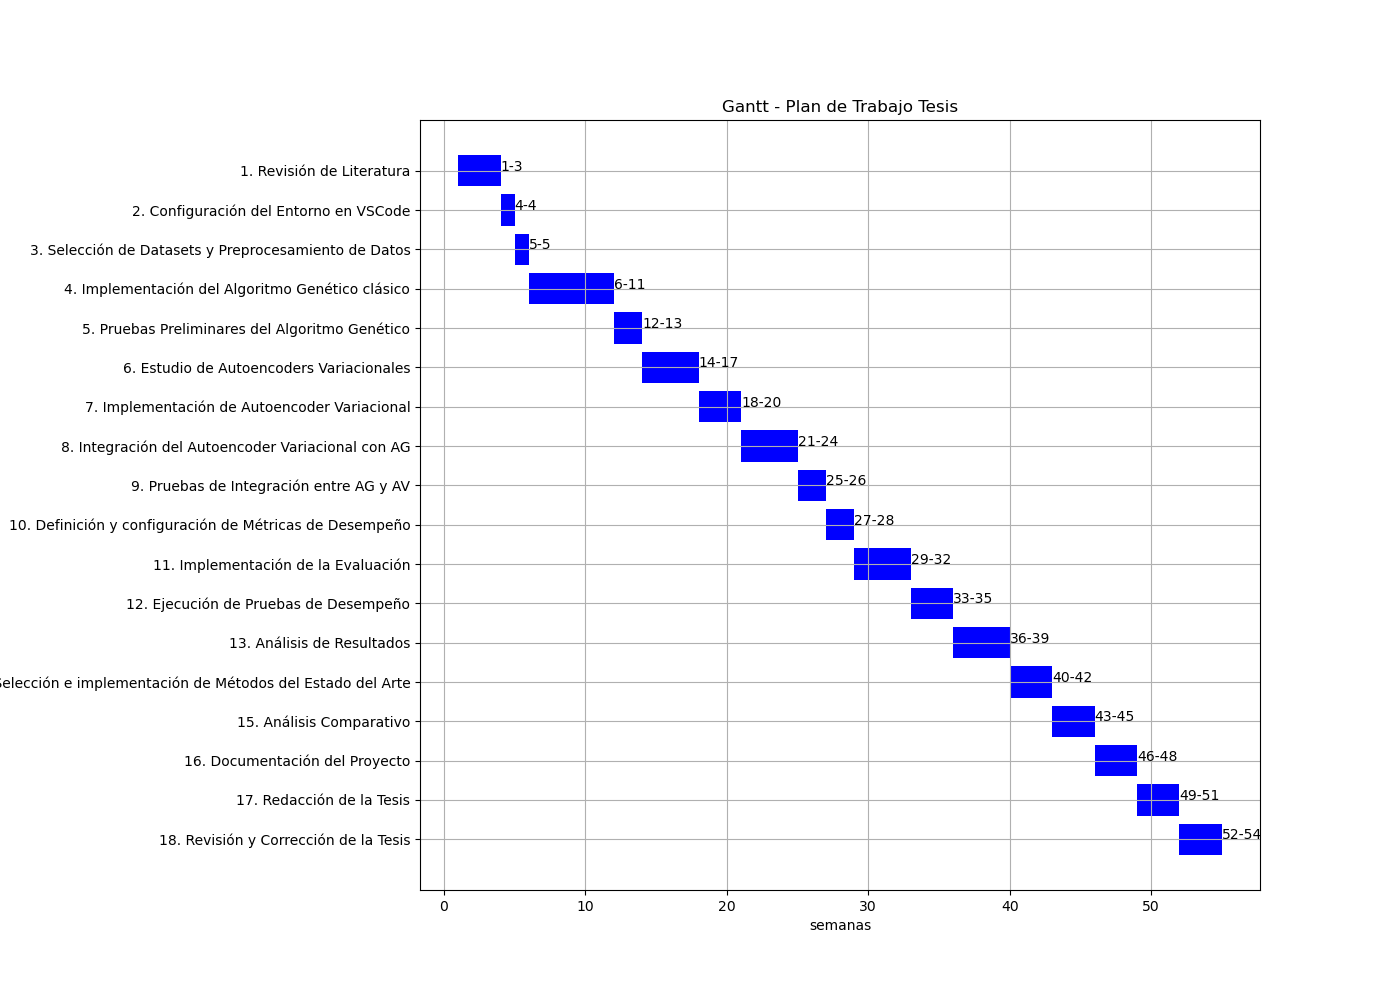
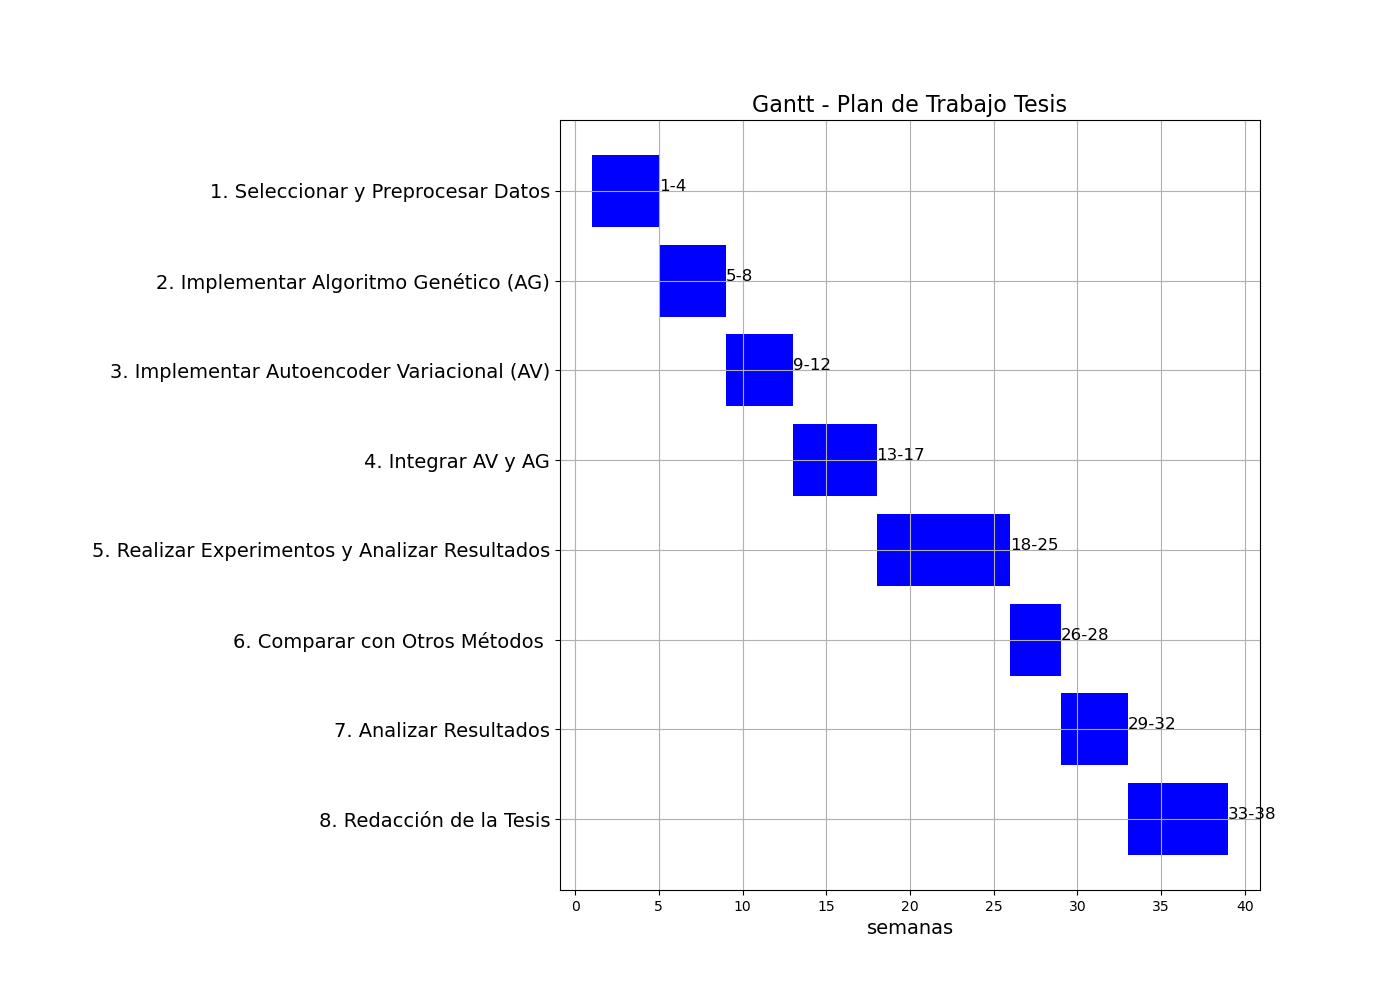
update

diff --git a/gant.py b/gant.py
@@ -3,26 +3,26 @@ import numpy as np
 
 # Updated activities and durations
 activities = [
-    "Revisión de Literatura",
-    "Configuración del Entorno en VSCode",
-    "Selección de Datasets y Preprocesamiento de Datos",
-    "Implementación del Algoritmo Genético clásico",
-    "Pruebas Preliminares del Algoritmo Genético",
-    "Estudio de Autoencoders Variacionales",
-    "Implementación de Autoencoder Variacional",
-    "Integración del Autoencoder Variacional con AG",
-    "Pruebas de Integración entre AG y AV",
-    "Definición y configuración de Métricas de Desempeño",
-    "Implementación de la Evaluación",
-    "Ejecución de Pruebas de Desempeño",
-    "Análisis de Resultados",
-    "Selección e implementación de Métodos del Estado del Arte",
-    "Análisis Comparativo",
-    "Documentación del Proyecto",
+    #"Revisión de Literatura",
+    #"Configuración del Entorno en VSCode",
+    "Seleccionar y Preprocesar Datos",
+    "Implementar Algoritmo Genético (AG)",
+    #"Pruebas Preliminares del Algoritmo Genético",
+    #"Estudio de Autoencoders Variacionales",
+    "Implementar Autoencoder Variacional (AV)",
+    "Integrar AV y AG",
+    #"Pruebas de Integración entre AG y AV",
+    #"Evaluar Desempeño",
+    #"Implementación de la Evaluación",
+    #"Ejecución de Pruebas de Desempeño",
+    "Realizar Experimentos y Analizar Resultados",
+    "Comparar con Otros Métodos ",
+    "Analizar Resultados",
+    #"Documentación del Proyecto",
     "Redacción de la Tesis",
-    "Revisión y Corrección de la Tesis"
+    #"Revisión y Corrección de la Tesis"
 ]
-durations = [3, 1, 1, 6, 2, 4, 3, 4, 2, 2, 4, 3, 4, 3, 3, 3, 3, 3]
+durations = [4,4,4,5,8,3,4,6]
 
 # Create an 'n' array to enumerate the activities
 n = list(range(1, len(activities) + 1))
@@ -32,22 +32,22 @@ start_week = 1
 
 # Create the updated Gantt chart with a new 'n' column
 fig, ax = plt.subplots(figsize=(14, 10))
-fig.subplots_adjust(left=0.3)  # Adjust the left margin
+fig.subplots_adjust(left=0.4)  # Adjust the left margin
 
 # Loop through activities, durations, and n in regular (not reversed) order
 for i, (activity, duration, num) in enumerate(zip(activities, durations, n)):
     end_week = start_week + duration - 1  # Calculate the ending week for the current activity
     ax.broken_barh([(start_week, duration)], ((len(activities) - i - 1) - 0.4, 0.8), facecolors='blue')
-    ax.text(end_week + 1, (len(activities) - i - 1), f"{start_week}-{end_week}", color="black", fontsize=10)
+    ax.text(end_week + 1, (len(activities) - i - 1), f"{start_week}-{end_week}", color="black", fontsize=12)
     start_week = end_week + 1  # Update the starting week for the next activity
 
 # Configure the axes and labels
-ax.set_xlabel("semanas")
+ax.set_xlabel("semanas", fontsize=14)
 ax.set_yticks(range(len(activities)))
-ax.set_yticklabels([f"{num}. {activity}" for num, activity in zip(n, reversed(activities))])
+ax.set_yticklabels([f"{num}. {activity}" for num, activity in zip(n, reversed(activities))], fontsize=14)
 ax.grid(True)
 
-plt.title("Gantt - Plan de Trabajo Tesis")
+plt.title("Gantt - Plan de Trabajo Tesis", fontsize=16)
 # Save the Gantt chart as a PNG file
 save_path = 'data/gantt_tesis.png'
 plt.savefig(save_path)
